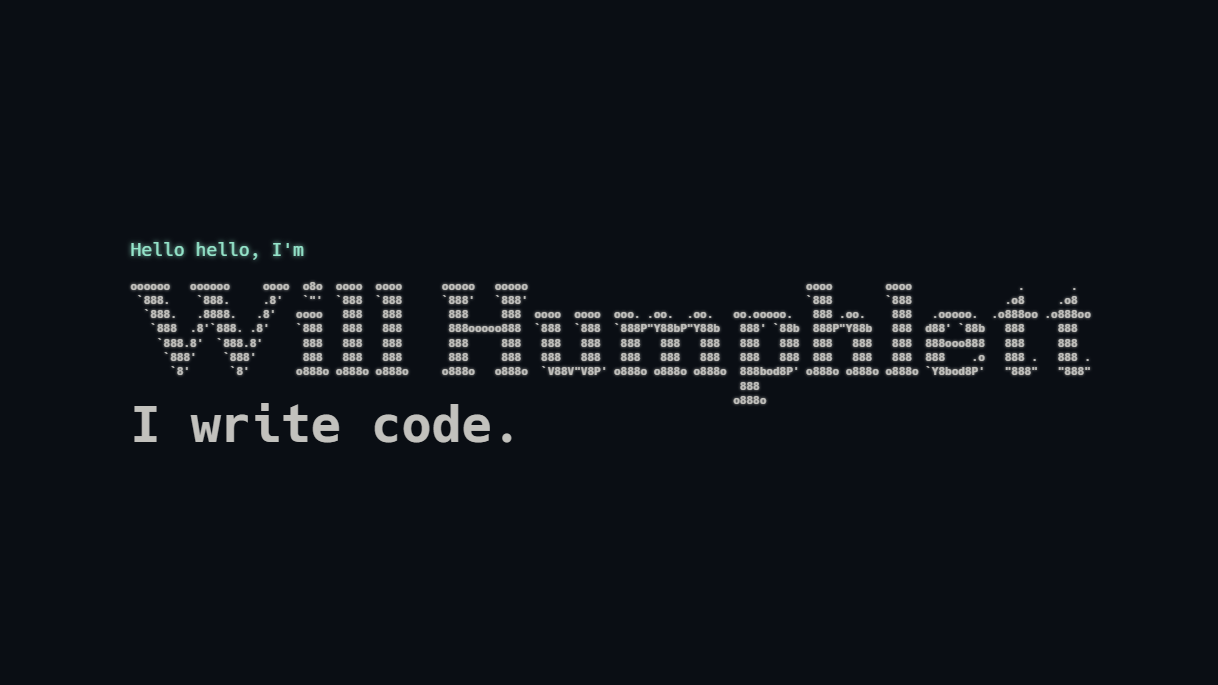
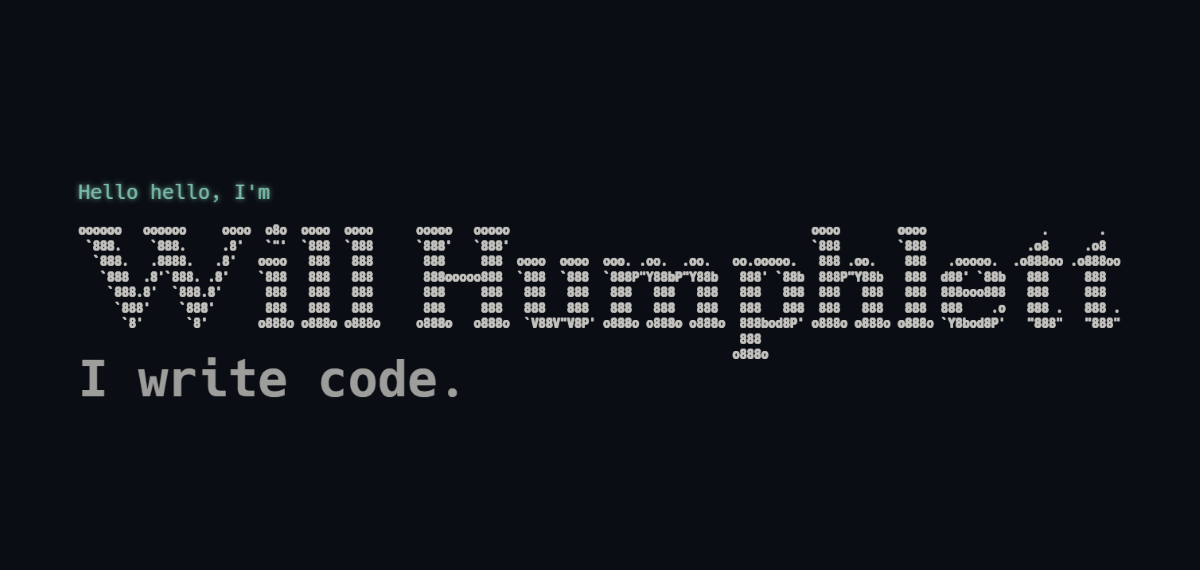
Update hero

Changed region(s): [[0.0617, 0.2982, 0.9558, 0.7158]]

diff --git a/src/components/sections/hero.js b/src/components/sections/hero.js
@@ -11,19 +11,22 @@ const StyledHeroSection = styled.section`
   h1 {
     margin: 0 0 0 0;
     color: var(--mint);
-    font-size: clamp(var(--fz-md), 5vw, var(--fz-lg));
+    font-size: clamp(var(--fz-md), 3.5vw, var(--fz-xl));
     font-weight: 400;
+    opacity: 0.8;
+  }
+  .title-container {
+    width: 100vw;
   }
   .ascii {
     float: left;
     width: fit-content;
-    font-size: clamp(4px, .70vw, var(--fz-sm));
+    font-size: clamp(4px, .85vw, var(--fz-xxs));
+    display: inline-block;
     margin: 20px 0 0 0;
-    @media (max-width: 780px) {
+    @media (max-width: 768px) {
+      font-size: clamp(4px, 1.4vw, var(--fz-sm));
       margin: 15px 0 10px 0;
-    }
-    @media (max-width: 416px) {
-      font-size: clamp(4px, 1.3vw, var(--fz-sm));
     }
   }
   h3 {
@@ -32,12 +35,18 @@ const StyledHeroSection = styled.section`
     line-height: 0.9;
     top: -15px;
     z-index: 2;
+    opacity: 0.8;
   }
   p {
     margin: 10px 0 10px;
     max-width: 700px;
+    &:first-of-type {
+      @media (max-width: 768px) {
+        margin: 15px 0 0 0;
+      }
+    }
     &:last-of-type {
-      @media (max-width: 416px) {
+      @media (max-width: 768px) {
         margin: 0 0 10px 5px;
       }
       @media (min-width: 1613px) {
@@ -46,6 +55,8 @@ const StyledHeroSection = styled.section`
     }
   }
 `;
+
+// █
 
 /*
 oooooo   oooooo     oooo  o8o  oooo  oooo       ooooo   ooooo                                          oooo        oooo                .       .
@@ -63,7 +74,7 @@ const Hero = () => {
   return (
     <StyledHeroSection>
       <div><h1><em>Hello hello, I'm</em></h1></div>
-      <div>
+          <div className="title-container">
         <p className="ascii" alt="Will Humphlett" title="Will Humphlett">
           oooooo   oooooo     oooo  o8o  oooo  oooo{"\n"}
           &nbsp;`888.    `888.     .8'   `"'  `888  `888{"\n"}
@@ -87,7 +98,7 @@ const Hero = () => {
           &nbsp;&nbsp;&nbsp;&nbsp;&nbsp;&nbsp;&nbsp;&nbsp;&nbsp;&nbsp;&nbsp;&nbsp;&nbsp;&nbsp;&nbsp;&nbsp;&nbsp;&nbsp;&nbsp;&nbsp;&nbsp;&nbsp;&nbsp;&nbsp;&nbsp;&nbsp;&nbsp;&nbsp;&nbsp;&nbsp;&nbsp;&nbsp;&nbsp;&nbsp;&nbsp;&nbsp;&nbsp;&nbsp;&nbsp;&nbsp;&nbsp;&nbsp;&nbsp;&nbsp;o888o{"\n"}
         </p>
       </div>
-      <div><h3 className="small-heading">I write code.</h3></div>
+          <div><h3 className="small-heading">I write code.</h3></div>
     </StyledHeroSection>
   )
 };

diff --git a/src/styles/GlobalStyle.js b/src/styles/GlobalStyle.js
@@ -111,6 +111,7 @@ const GlobalStyle = createGlobalStyle`
 
   .ascii {
     font-size: var(--fz-ascii);
+    text-shadow: 0px 0.5px, 0.5px 0px, 0.5px 0.5px;
     white-space: pre;
     font-weight: 900;
   }
@@ -124,7 +125,7 @@ const GlobalStyle = createGlobalStyle`
   }
   .small-heading {
     margin: 0;
-    font-size: clamp(30px, 7vw, 50px);
+    font-size: clamp(35px, 4.5vw, 50px);
   }
   .section-heading {
     display: flex;
@@ -136,7 +137,7 @@ const GlobalStyle = createGlobalStyle`
     white-space: nowrap;
     text-shadow: 0 0 5px;
     &:before {
-      content: '/heading/';
+      content: '/hdng/';
       position: relative;
       color: var(--blue);
       font-family: var(--font-mono);

diff --git a/src/styles/variables.js b/src/styles/variables.js
@@ -24,7 +24,7 @@ const variables = css`
     --fz-xl: 20px;
     --fz-xxl: 22px;
     --fz-heading: 32px;
-    --fz-ascii: clamp(6px, 1vw, var(--fz-sm));
+    --fz-ascii: clamp(6px, 1.1vw, var(--fz-sm));
     
     --border-radius: 4px;
     --nav-height: 100px;
